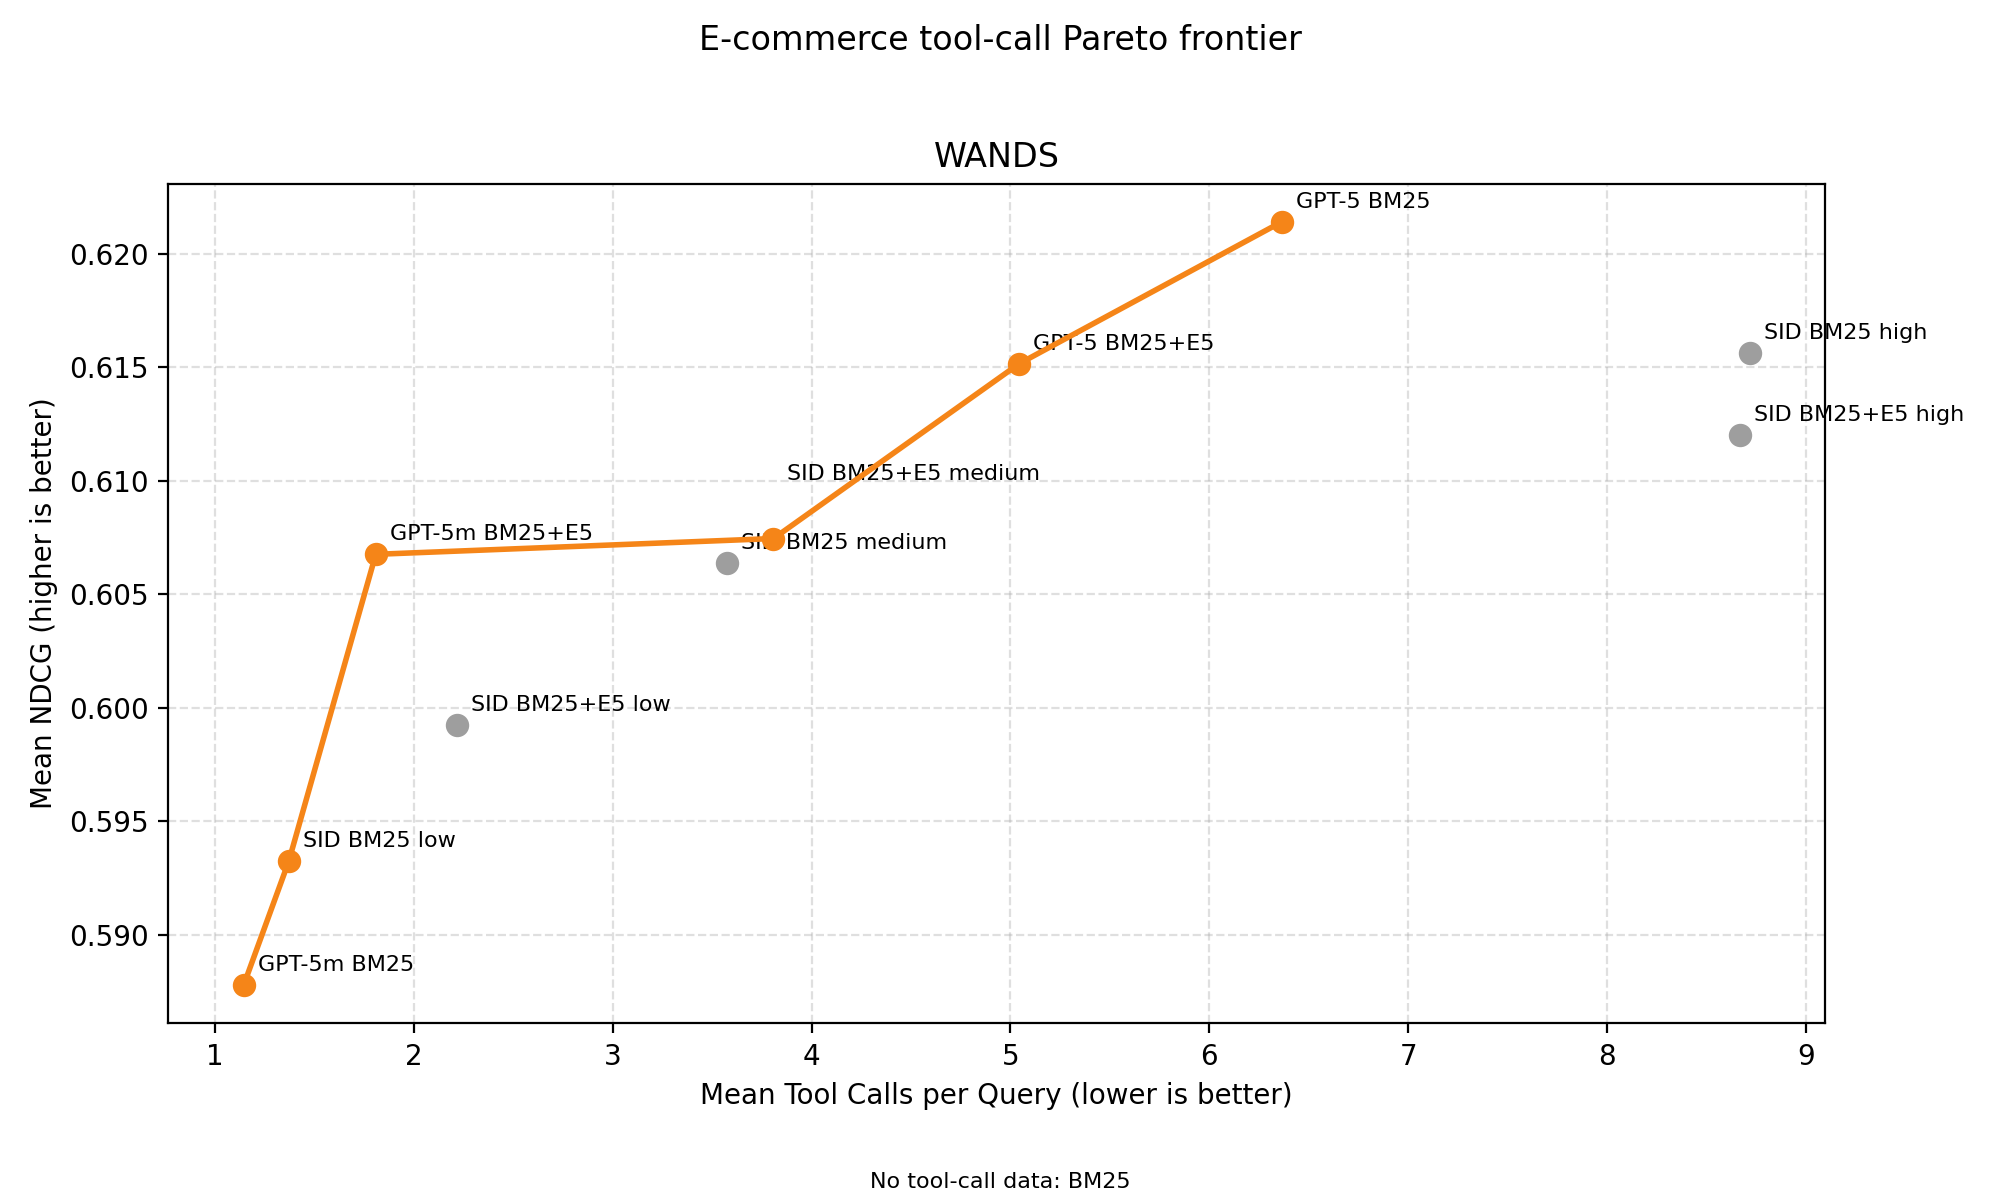
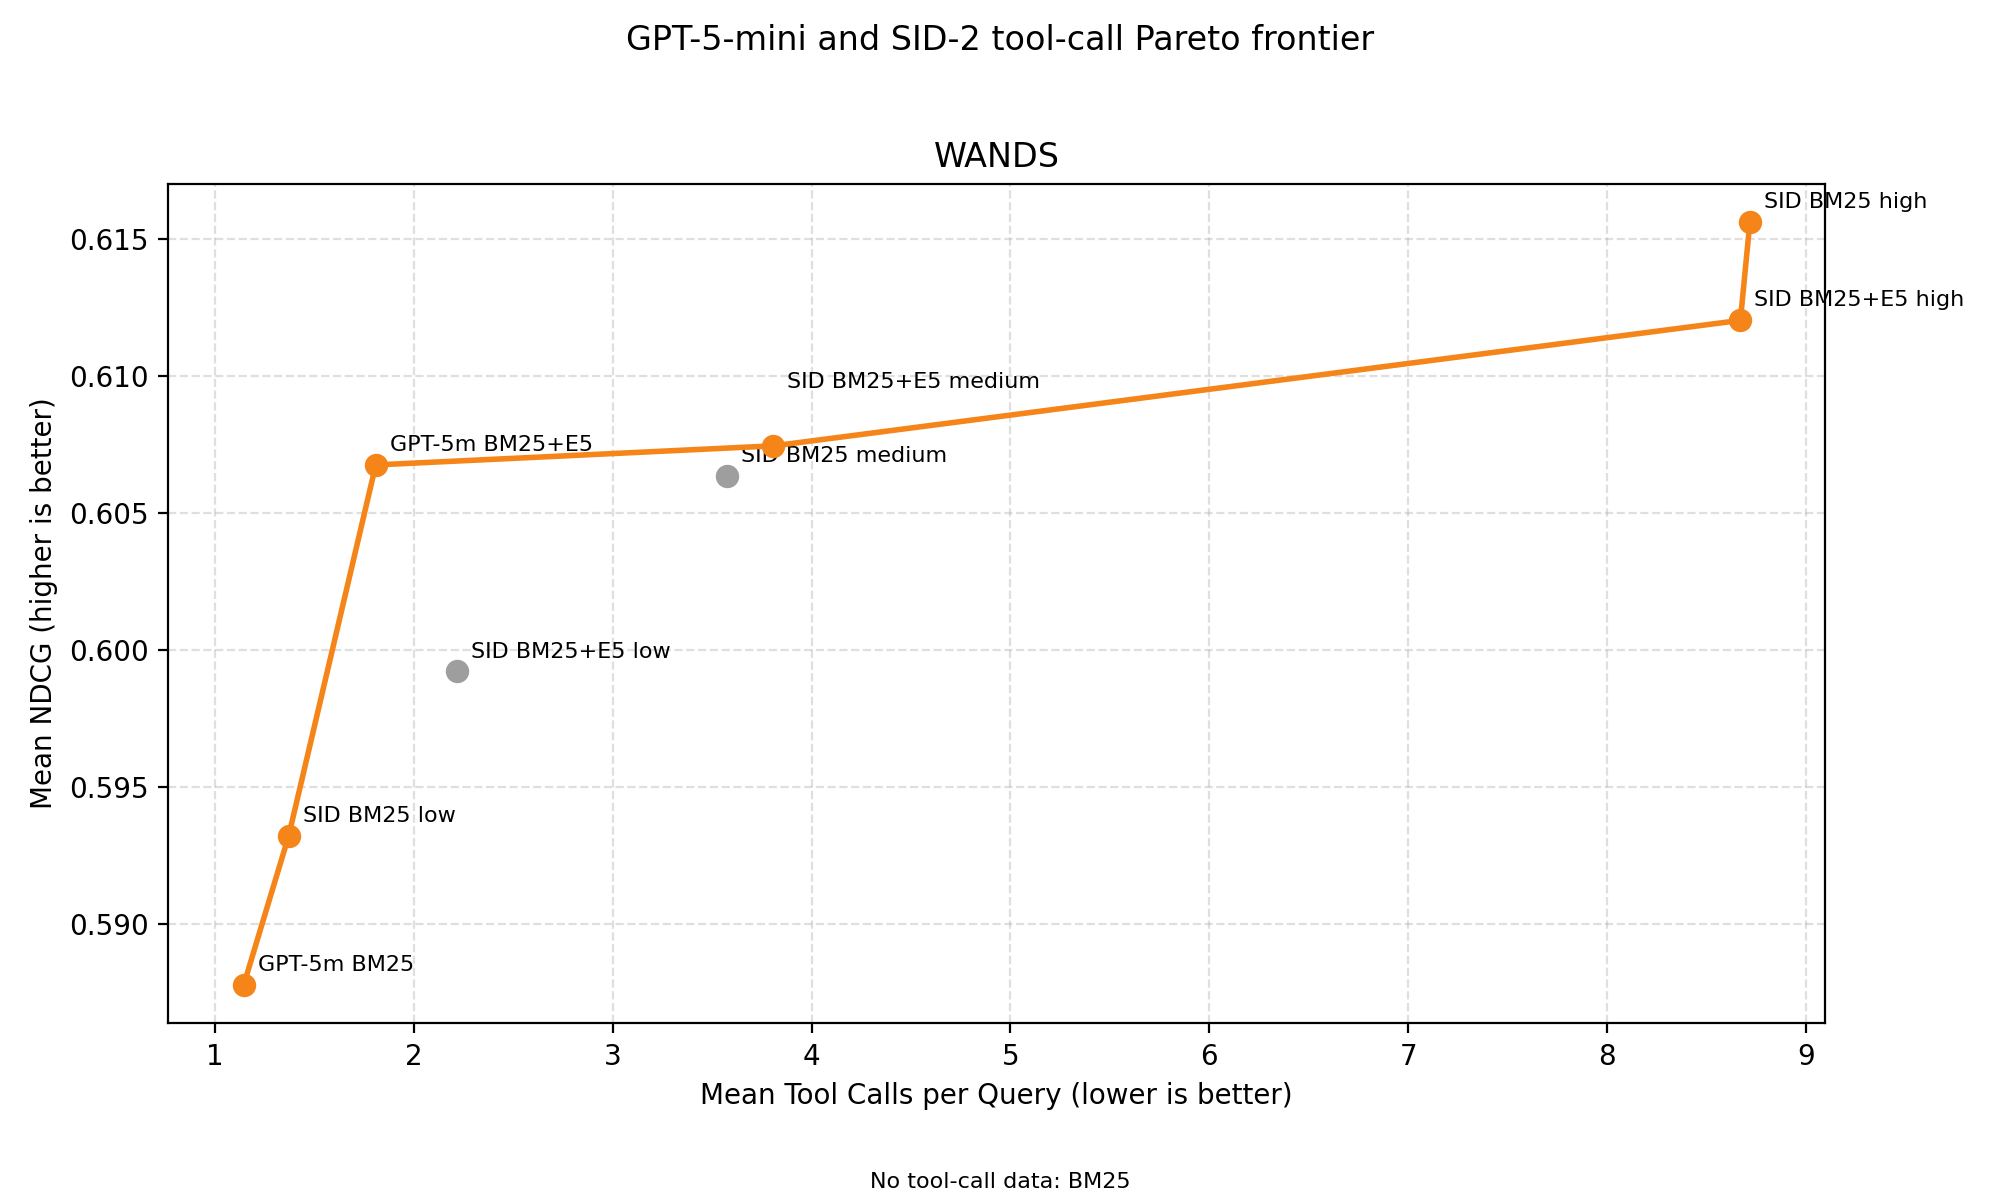
Focus Pareto graphs on GPT-5-mini and SID-2
Exclude full GPT-5 variants from the dataset Pareto graphs while retaining GPT-5-mini and SID-2 comparisons. Update chart labels, report notes, and coverage tests.

diff --git a/scripts/plot_ecom_sid_matrix.py b/scripts/plot_ecom_sid_matrix.py
@@ -24,6 +24,15 @@ STRATEGIES = (
     ),
     ("agentic_ecom_sid_bm25_e5_base_v2_high", "SID-2 · BM25 + E5 · high"),
 )
+GPT5_STRATEGIES = frozenset(
+    {
+        "agentic_bm25_ecommerce",
+        "agentic_bm25_e5_ecommerce_gpt5",
+    }
+)
+PARETO_STRATEGIES = tuple(
+    strategy for strategy in STRATEGIES if strategy[0] not in GPT5_STRATEGIES
+)
 
 
 def _read_mean_ndcg(
@@ -227,7 +236,7 @@ def plot_pareto_results(input_path: Path, output_path: Path, dataset: str) -> No
             "mean_ndcg": means[(dataset, strategy)],
             "mean_resource.tool_calls": tool_calls[(dataset, strategy)],
         }
-        for strategy, _ in STRATEGIES
+        for strategy, _ in PARETO_STRATEGIES
         if (dataset, strategy) in tool_calls and (dataset, strategy) in means
     ]
     frontier = _pareto_front(points)
@@ -271,7 +280,7 @@ def plot_pareto_results(input_path: Path, output_path: Path, dataset: str) -> No
     ax.set_ylabel("Mean NDCG (higher is better)")
     ax.grid(linestyle="--", alpha=0.4)
     ax.set_axisbelow(True)
-    fig.suptitle("E-commerce tool-call Pareto frontier")
+    fig.suptitle("GPT-5-mini and SID-2 tool-call Pareto frontier")
     missing = [
         labels[strategy]
         for strategy, _ in STRATEGIES

diff --git a/tests/unit/test_plot_ecom_sid_matrix.py b/tests/unit/test_plot_ecom_sid_matrix.py
@@ -4,6 +4,8 @@ import sys
 import pytest
 
 from scripts.plot_ecom_sid_matrix import (
+    GPT5_STRATEGIES,
+    PARETO_STRATEGIES,
     STRATEGIES,
     _pareto_front,
     _read_mean_ndcg,
@@ -22,6 +24,15 @@ def test_matrix_includes_full_gpt5_and_gpt5_mini_tool_variants():
         strategy_labels["agentic_bm25_e5_ecommerce_gpt5_mini"]
         == "GPT-5-mini · BM25 + E5"
     )
+
+
+def test_pareto_peers_exclude_full_gpt5_but_keep_gpt5_mini_and_sid():
+    pareto_strategy_names = {strategy for strategy, _ in PARETO_STRATEGIES}
+
+    assert GPT5_STRATEGIES.isdisjoint(pareto_strategy_names)
+    assert "agentic_bm25_ecommerce_gpt5_mini" in pareto_strategy_names
+    assert "agentic_bm25_e5_ecommerce_gpt5_mini" in pareto_strategy_names
+    assert "agentic_ecom_sid_bm25_low" in pareto_strategy_names
 
 
 def test_read_mean_ndcg_averages_runs_and_ignores_other_metrics(tmp_path):

diff --git a/research/sid/ecommerce_sid_matrix.md b/research/sid/ecommerce_sid_matrix.md
@@ -21,6 +21,9 @@ E5 reaches the highest score overall (0.4537).
 
 ![WANDS retrieval quality by variant](../../assets/ecom_sid_matrix_wands.png)
 
+The Pareto graphs compare GPT-5-mini and SID-2; the full GPT-5 variants are
+omitted.
+
 ![WANDS retrieval and tool-call Pareto graph](../../assets/ecom_sid_matrix_pareto_wands.png)
 
 | Variant | Mean NDCG | Median NDCG | Mean tool calls/query | Median tool calls/query |
